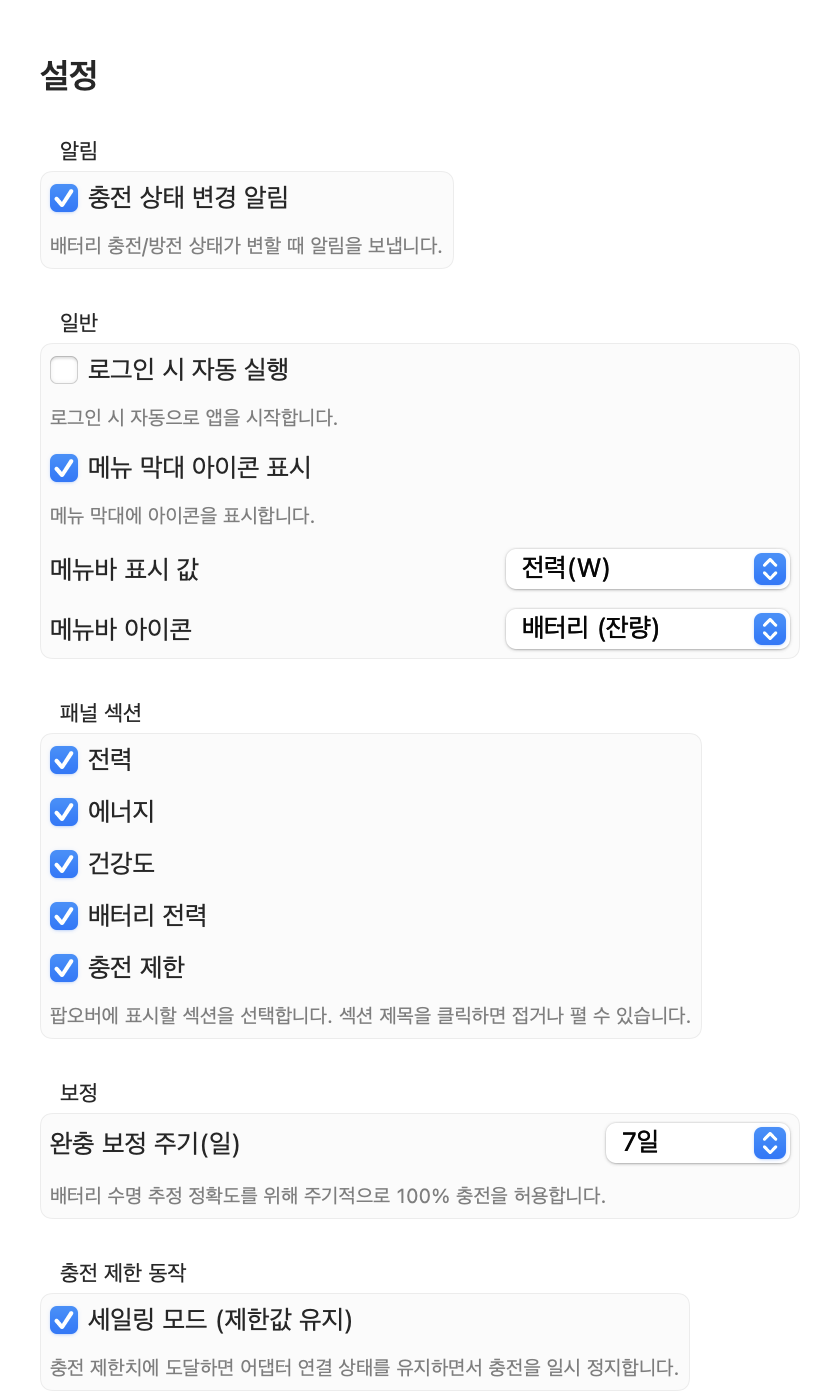
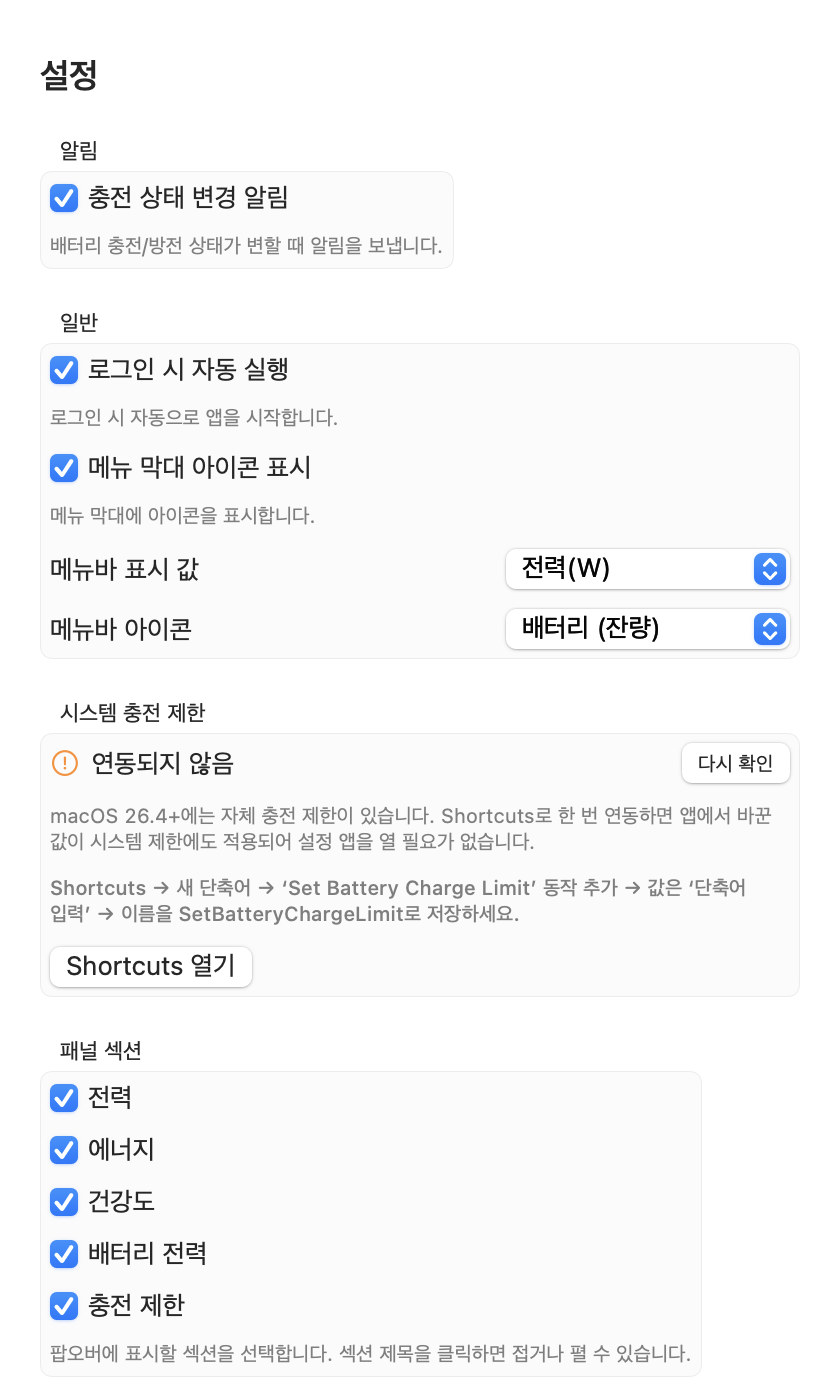
Add system charge limit linking UI; sync OS and helper limits; v1.4.0

diff --git a/Sources/Akkim/SettingsView.swift b/Sources/Akkim/SettingsView.swift
@@ -7,6 +7,7 @@ import AppKit
 
 struct SettingsView: View {
     @EnvironmentObject private var settings: AppSettings
+    @EnvironmentObject private var chargeLimit: ChargeLimitController
 
     var body: some View {
         ScrollView {
@@ -58,6 +59,37 @@ struct SettingsView: View {
                         }
                         .pickerStyle(.menu)
                         .frame(width: 150)
+                    }
+                }
+            }
+
+            GroupBox(L10n.t(.systemLimit)) {
+                VStack(alignment: .leading, spacing: 10) {
+                    HStack(spacing: 6) {
+                        Image(systemName: chargeLimit.capability.bridgeConfigured
+                              ? "checkmark.circle.fill" : "exclamationmark.circle")
+                            .foregroundStyle(chargeLimit.capability.bridgeConfigured ? .green : .orange)
+                        Text(chargeLimit.capability.bridgeConfigured
+                             ? L10n.t(.systemLimitLinked)
+                             : L10n.t(.systemLimitNotLinked))
+                        Spacer()
+                        Button(L10n.t(.recheck)) {
+                            Task { await chargeLimit.refresh() }
+                        }
+                        .font(.caption)
+                    }
+                    Text(L10n.t(.systemLimitDetail))
+                        .font(.caption)
+                        .foregroundStyle(.secondary)
+                    if !chargeLimit.capability.bridgeConfigured {
+                        Text(L10n.t(.systemLimitSteps))
+                            .font(.caption2)
+                            .foregroundStyle(.secondary)
+                        Button(L10n.t(.openShortcutsApp)) {
+                            if let url = URL(string: "shortcuts://") {
+                                NSWorkspace.shared.open(url)
+                            }
+                        }
                     }
                 }
             }
@@ -148,6 +180,9 @@ struct SettingsView: View {
         .padding(20)
         }
         .frame(width: 420, height: 700)
+        .onAppear {
+            Task { await chargeLimit.refresh() }
+        }
         .onChange(of: settings.launchAtLogin) { _ in
             settings.applyLaunchAtLogin()
         }

diff --git a/Sources/Akkim/Localization.swift b/Sources/Akkim/Localization.swift
@@ -109,6 +109,13 @@ enum LKey {
     case iconStyleBattery
     case iconStyleBolt
     case iconStylePlug
+    case systemLimit
+    case systemLimitLinked
+    case systemLimitNotLinked
+    case systemLimitDetail
+    case systemLimitSteps
+    case openShortcutsApp
+    case recheck
     case panelSections
     case panelSectionsDetail
     case panelSectionCollapseHelp
@@ -283,6 +290,17 @@ extension LKey {
         case .iconStyleBattery:         return ("Battery (charge level)", "배터리 (잔량)")
         case .iconStyleBolt:            return ("Charging battery", "충전 배터리")
         case .iconStylePlug:            return ("Power plug", "전원 플러그")
+        case .systemLimit:              return ("System charge limit", "시스템 충전 제한")
+        case .systemLimitLinked:        return ("Linked — changes apply to macOS too", "연동됨 — 변경이 macOS에도 적용됩니다")
+        case .systemLimitNotLinked:     return ("Not linked", "연동되지 않음")
+        case .systemLimitDetail:
+            return ("macOS 26.4+ enforces its own Charge Limit. Link it once through Shortcuts and Akkim can update the system limit from this app, without opening System Settings.",
+                    "macOS 26.4+에는 자체 충전 제한이 있습니다. Shortcuts로 한 번 연동하면 앱에서 바꾼 값이 시스템 제한에도 적용되어 설정 앱을 열 필요가 없습니다.")
+        case .systemLimitSteps:
+            return ("Shortcuts → New Shortcut → add “Set Battery Charge Limit” → use Shortcut Input → name it SetBatteryChargeLimit.",
+                    "Shortcuts → 새 단축어 → ‘Set Battery Charge Limit’ 동작 추가 → 값은 ‘단축어 입력’ → 이름을 SetBatteryChargeLimit로 저장하세요.")
+        case .openShortcutsApp:         return ("Open Shortcuts", "Shortcuts 열기")
+        case .recheck:                  return ("Check again", "다시 확인")
         case .panelSections:            return ("Panel sections", "패널 섹션")
         case .panelSectionsDetail:
             return ("Choose which sections appear in the popover. Click a section title to collapse or expand it.",

diff --git a/Sources/Akkim/ChargeLimitController.swift b/Sources/Akkim/ChargeLimitController.swift
@@ -155,6 +155,11 @@ final class ChargeLimitController: ObservableObject {
             bridgeProbe = nil
             if capability.platformSupportsSet, let bridge, await bridgeAvailable() {
                 try await bridge.set(percent: percent)
+                // Keep the helper in sync too: on CHIE machines a stale helper limit
+                // would keep cutting AC even though the system limit changed.
+                if limiter.installed {
+                    if limiter.enabled { limiter.setLimit(percent) } else { await limiter.enable(limit: percent) }
+                }
                 // Shortcuts URL scheme does not return a result synchronously; give the
                 // system a moment and refresh from the source of truth.
                 try? await Task.sleep(nanoseconds: 1_500_000_000)

diff --git a/Sources/Akkim/AppDelegate.swift b/Sources/Akkim/AppDelegate.swift
@@ -128,6 +128,7 @@ final class AppDelegate: NSObject, NSApplicationDelegate {
         if settingsWindow == nil {
             let settingsView = SettingsView()
                 .environmentObject(container.settings)
+                .environmentObject(container.chargeLimitController)
             let window = NSWindow(
                 contentRect: NSRect(x: 0, y: 0, width: 420, height: 700),
                 styleMask: [.titled, .closable, .resizable],

diff --git a/docs/HANDOVER.md b/docs/HANDOVER.md
@@ -31,7 +31,7 @@ SoC 차트, 사유 기반 알림**을 추가했습니다.
 | 안정성(P0) | JSON 원자적 쓰기, 데몬 last-good-config(약 60초), 권한 775/664 자동 교정, 서명 순서, 알림 게이팅, 구 데몬(`com.batterylimit.helper`) 제거 |
 | UX(P1) | 관리자 인증 비블로킹(`Process.terminationHandler`), 제한 on/off 토글, `shortcuts list` 프로브 캐싱 |
 | 이번 배치 | 헬퍼 상태 파일, 일시정지 사유, 원샷 만충전, 열 보호, 우클릭 빠른 메뉴, 메뉴바 표시 옵션, SoC 스파크라인, 알림 세분화 |
-| 지역화 | `LKey` **120개**, `LKey.text` exhaustive switch |
+| 지역화 | `LKey` **127개**, `LKey.text` exhaustive switch |
 | 패키징 | `scripts/package-app.sh`, ad-hoc 서명, MIT 고지 파일 번들 포함 |
 | CI | `.github/workflows/build.yml` (macos-14, build → package → signature/bundle 검증 → artifact) |
 
@@ -163,7 +163,7 @@ battery-limit/
 │   ├── MenuBarPanel.swift        # 팝오버 UI
 │   ├── SettingsView.swift
 │   ├── HistoryChartView.swift    # 전력 + SoC 차트
-│   ├── Localization.swift        # LKey 120개 (ko/en)
+│   ├── Localization.swift        # LKey 127개 (ko/en)
 │   ├── MenuBarIcon.swift         # 메뉴바 배터리 글리프(AppKit 직접 그리기)
 │   ├── BatteryHealthHistory.swift # 건강도 샘플 저장/추이
 │   ├── BatteryHealthChart.swift   # Swift Charts 건강도 영역 그래프
@@ -422,6 +422,14 @@ battery-limit/
 - 해결 방법(사용자): 시스템 설정 → 배터리 → 충전(ⓘ) → **Charge Limit**을 앱 제한과 같거나
   높게 설정하거나 100%로 변경.
 
+### 5.12 시스템 충전 제한 연동 UI (2026-11-04)
+
+- macOS 26.4+의 Charge Limit은 `powerd` entitlement로 강제되어 공개 API/CLI가 없습니다.
+  유일한 공개 경로는 Shortcuts의 **Set Battery Charge Limit** 액션입니다.
+- 설정 › **시스템 충전 제한** 그룹 추가: 연동 여부, 안내, Shortcuts 열기, 다시 확인.
+- 연동된 상태에서 앱 제한을 바꾸면 `ShortcutsBridge`가 OS 제한을 설정하고,
+  헬퍼 설정도 같은 값으로 맞춥니다(오래된 헬퍼 제한이 AC를 끊는 충돌 방지).
+
 ---
 
 ## 6. 실기기 테스트 체크리스트
@@ -639,7 +647,7 @@ EOF
 ### 9.2 저장소/배포
 
 - [x] 릴리스 워크플로 추가 (`.github/workflows/release.yml`, 태그 `v*` → zip + Release)
-- [x] 앱 버전 `CFBundleShortVersionString 1.3.1` / `CFBundleVersion 8`
+- [x] 앱 버전 `CFBundleShortVersionString 1.4.0` / `CFBundleVersion 9`
 - [x] `git init` 및 `https://github.com/karanglass24-lang/akkim` push
 - [ ] 폴더명 `battery-limit` → `akkim` 정리 (선택)
 - [x] 태그 푸시(`v1.0.0`, `v1.0.1`) 후 Release 자산(`Akkim.zip`, `.sha256`) 확인
@@ -665,7 +673,7 @@ EOF
 
 - **UI 문자열**: 반드시 `Sources/Akkim/Localization.swift`의 `LKey`에 추가.
   `LKey.text`는 exhaustive switch이므로 번역 누락 시 컴파일 실패.
-  현재 120개.
+  현재 127개.
 - **리소스 없음**: `.lproj`를 쓰지 않으므로 `Package.swift`에 `resources:`를 추가하지 말 것.
 - **동시성**: `SMCChargeLimiter`, `ChargeLimitController`, `AppSettings`,
   `StatusBarController`, `SampleStream`은 `@MainActor`.

diff --git a/README.md b/README.md
@@ -56,6 +56,8 @@ The `release` workflow builds on a macOS runner, verifies the bundle, zips it as
   Totals cover time while the app is running (sleep and quit gaps are ignored).
 
 ### Charging Limit
+- **Linking the macOS 26.4+ system Charge Limit** through a one-time Shortcuts
+  shortcut lets the app update the system limit itself — no trip to System Settings
 - Apple Silicon Mac (M1–M4), macOS 13+
 - macOS 26.4+: native battery charge limit bridged via a Shortcuts action (`SetBatteryChargeLimit`)
 - Fallback: SMC charge-control keys (`CHTE` / `CHIE`) via a root LaunchDaemon helper
